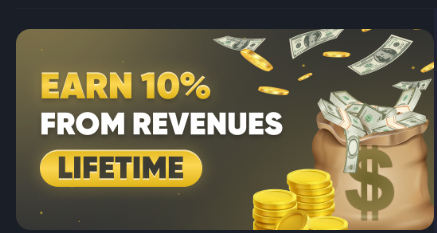
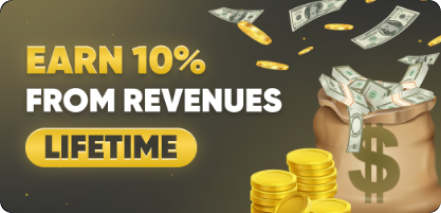
fix last issues with rewards

diff --git a/app/components/referrals/ReferralInfo.tsx b/app/components/referrals/ReferralInfo.tsx
@@ -7,14 +7,14 @@ const ReferralInfo = () => {
     return (
         <div className='flex h-[109px] w-full items-center gap-[15px] mb-[33px] bg-[#241b42] px-5 py-[13px] rounded-lg'>
             <div>
-                <Image src={`${basePath}/images/temporary-profile-medium-image.jpg`} alt='Medium Profile Icon' width={83} height={84} className='rounded-full' />
+                <Image src={`${basePath}/images/temporary-profile-medium-image.png`} alt='Medium Profile Icon' width={83} height={84} className='rounded-full' />
             </div>
             <div className='w-full flex items-center justify-between'>
                 <div className='flex flex-col gap-2'>
                     <p className='font-[24px]'>Username</p>
                     <div className='flex gap-[10px] items-center'>
                         <div>
-                            <SmallIcon circleWidthPixel={30} circleHeightPixel={30} iconSrc='/images/referral-rank-icon.png' />
+                            <SmallIcon circleWidthPixel={30} circleHeightPixel={30} iconSrc='/images/referral-rank-icon.png' iconWidthPixel={16} iconHeightPixel={16} />
                         </div>
                         <p className='text-[16px] text-[#D187FF]'>Referral Rank</p>
                     </div>

diff --git a/app/components/banners/MediumBanner.tsx b/app/components/banners/MediumBanner.tsx
@@ -18,7 +18,7 @@ const MediumBanner = ({ hasSeparateButton, buttonText, imgSrc }: MediumBannerPro
                     <button className='bg-gray-800 text-white text-lg rounded-3xl w-[min(90%,30rem)] h-14 absolute bottom-4'>{buttonText}</button>
                 </div>
             ) : (
-                <button style={{ backgroundImage: `${imgSrc}` }} className='bg-gray-400/20 h-[213px] flex justify-center rounded-2xl w-full'>
+                <button style={{ backgroundImage: `${imgSrc}` }} className='bg-gray-400/20 h-[213px] flex justify-center items-center rounded-2xl w-full'>
                     <div style={{ position: 'relative', width: '100%', height: '100%' }}>
                         {imgSrc && (
                             <Image src={imgSrc} alt="Banner" layout="fill" objectFit="cover" className="rounded-lg" />

diff --git a/app/components/referrals/ReferralsTable.tsx b/app/components/referrals/ReferralsTable.tsx
@@ -7,7 +7,7 @@ const ReferralsTable = () => {
   return (
     <div className='w-full mb-[56px]'>
       <div className='flex gap-[7px] items-center'>
-        <SmallIcon circleWidthPixel={30} circleHeightPixel={30} iconSrc='/images/your-referrals-images.png' iconWidthPixel={15} iconHeightPixel={15} />
+        <SmallIcon circleWidthPixel={30} circleHeightPixel={30} iconSrc='/images/your-referrals-image.png' iconWidthPixel={15} iconHeightPixel={15} />
         <p>Your Referrals</p>
       </div>
       <div className='flex flex-col mt-2 bg-[#241b42] h-64 rounded-xl overflow-hidden'>

diff --git a/app/components/referrals/ReferralLink.tsx b/app/components/referrals/ReferralLink.tsx
@@ -5,7 +5,7 @@ import CopyTextTemplate from '../copy/CopyTextTemplate'
 
 const ReferralLink = () => {
   return (
-    <div className='w-full flex flex-col gap-1 mb-[20px]'>
+    <div className='w-full flex flex-col gap-[14px] mb-[20px]'>
       <p className='text-[#b575e1] text-[20px]'>Your Referral Link</p>
       <div className='flex w-full gap-2 h-[60px] items-center justify-center'>
         <div className='w-[268px]'>

diff --git a/app/rewards/page.tsx b/app/rewards/page.tsx
@@ -18,7 +18,7 @@ const RewardsPage = () => {
           <p className='flex justify-center items-center w-full text-[#b575e1] text-xl'>Rewards</p>
         </div>
         <div className='w-full my-[20px]'>
-          <MediumBanner imgSrc='/images/medium0-banner-image-1' />
+          <MediumBanner imgSrc='/images/medium-banner-image-1.png' />
         </div>
         <ReferralInfo />
         <ReferralLink />
